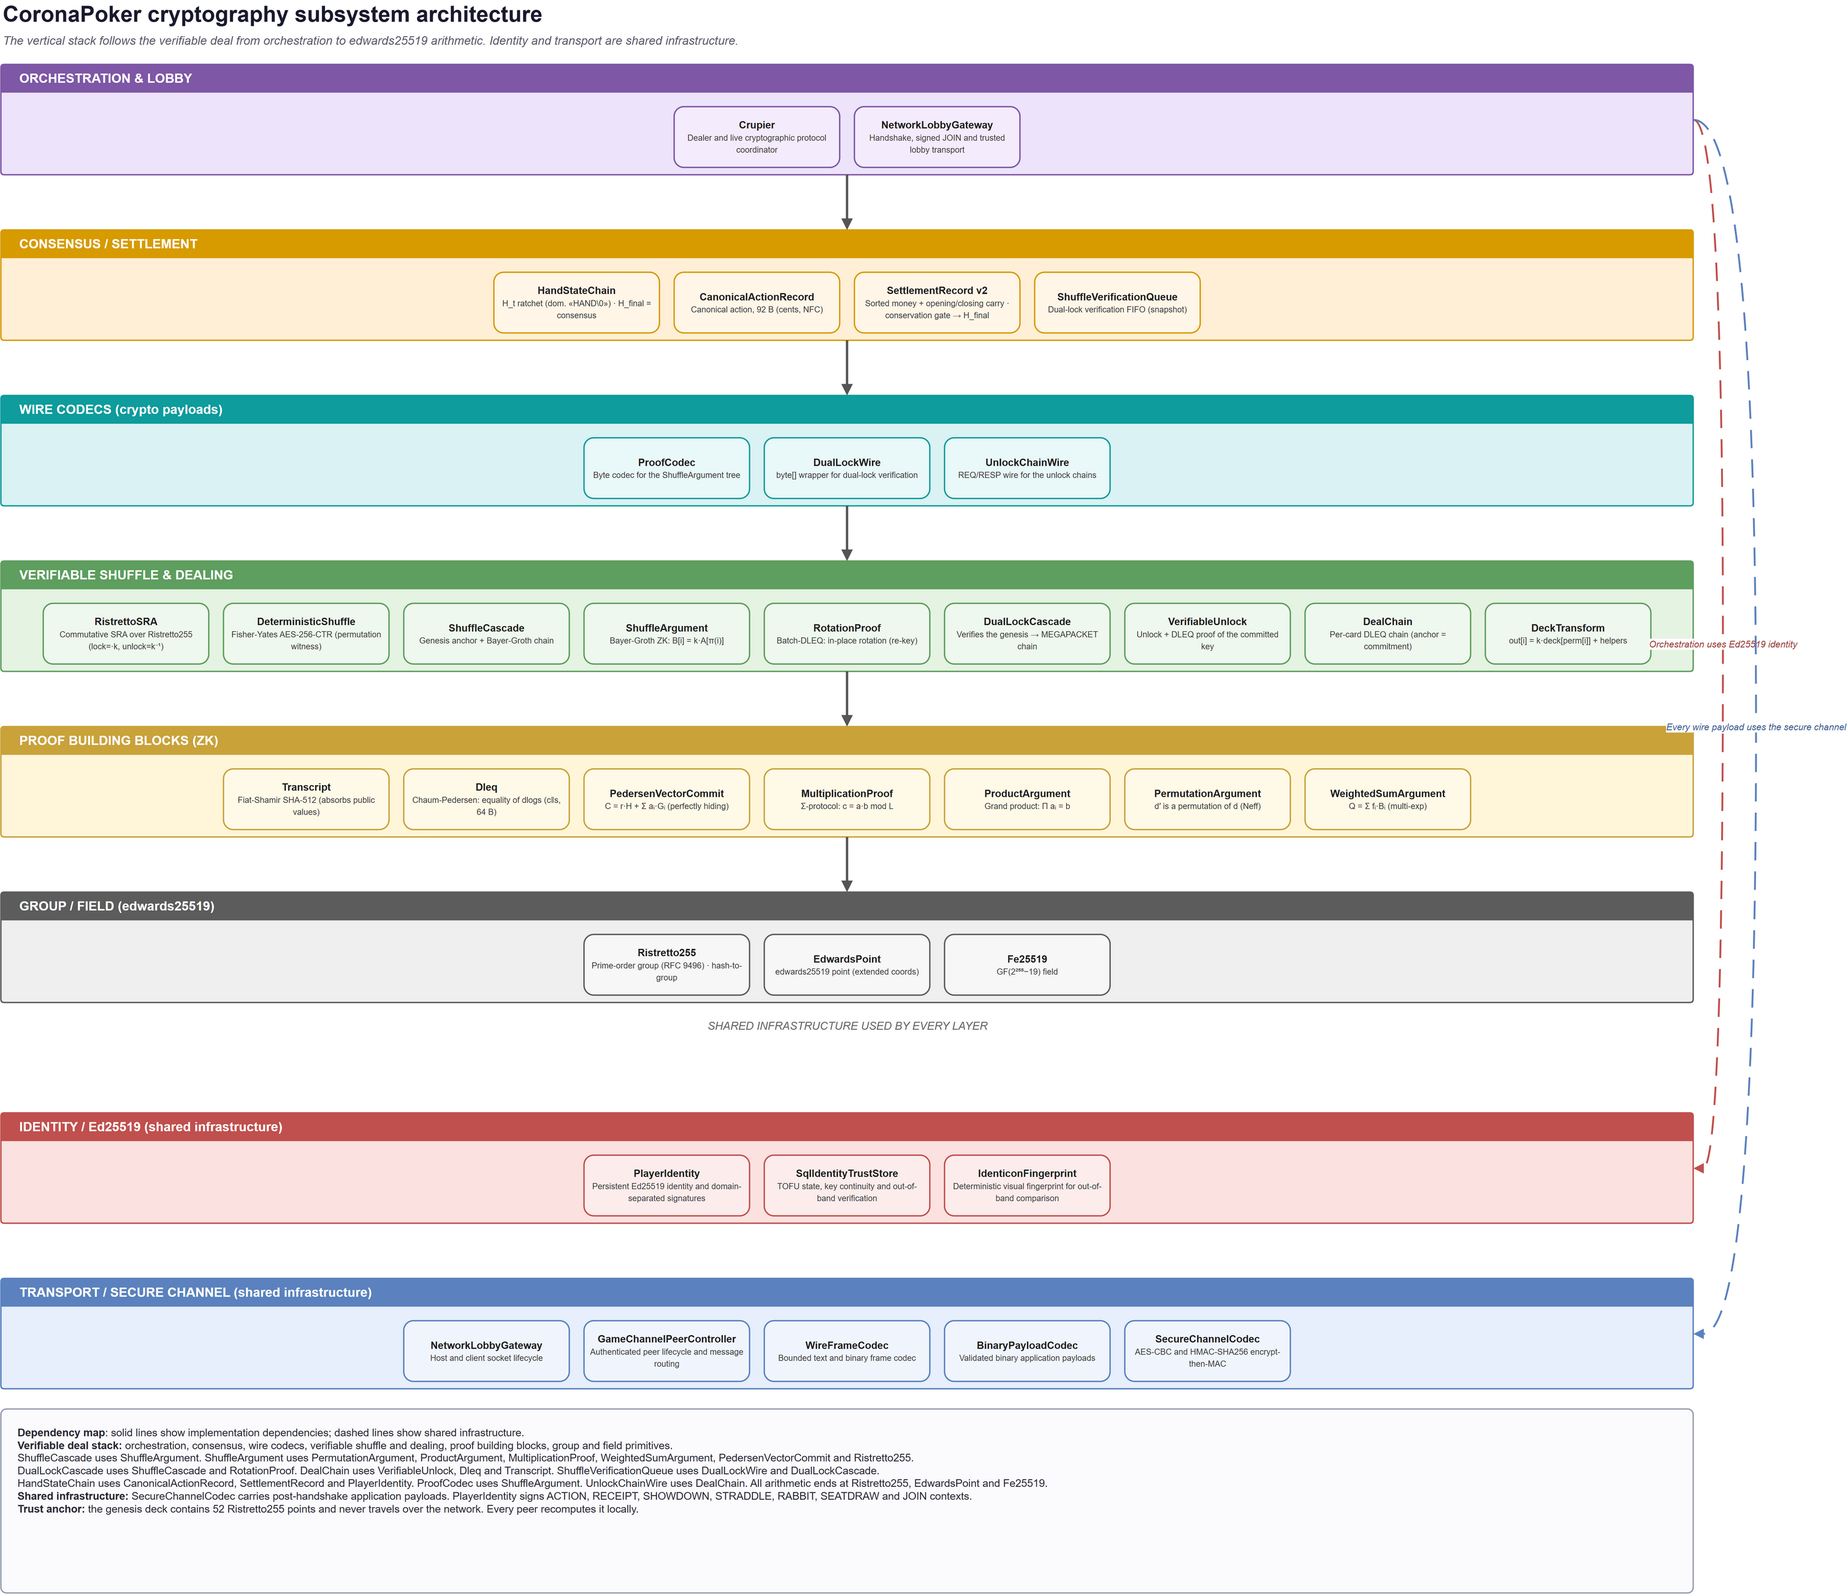
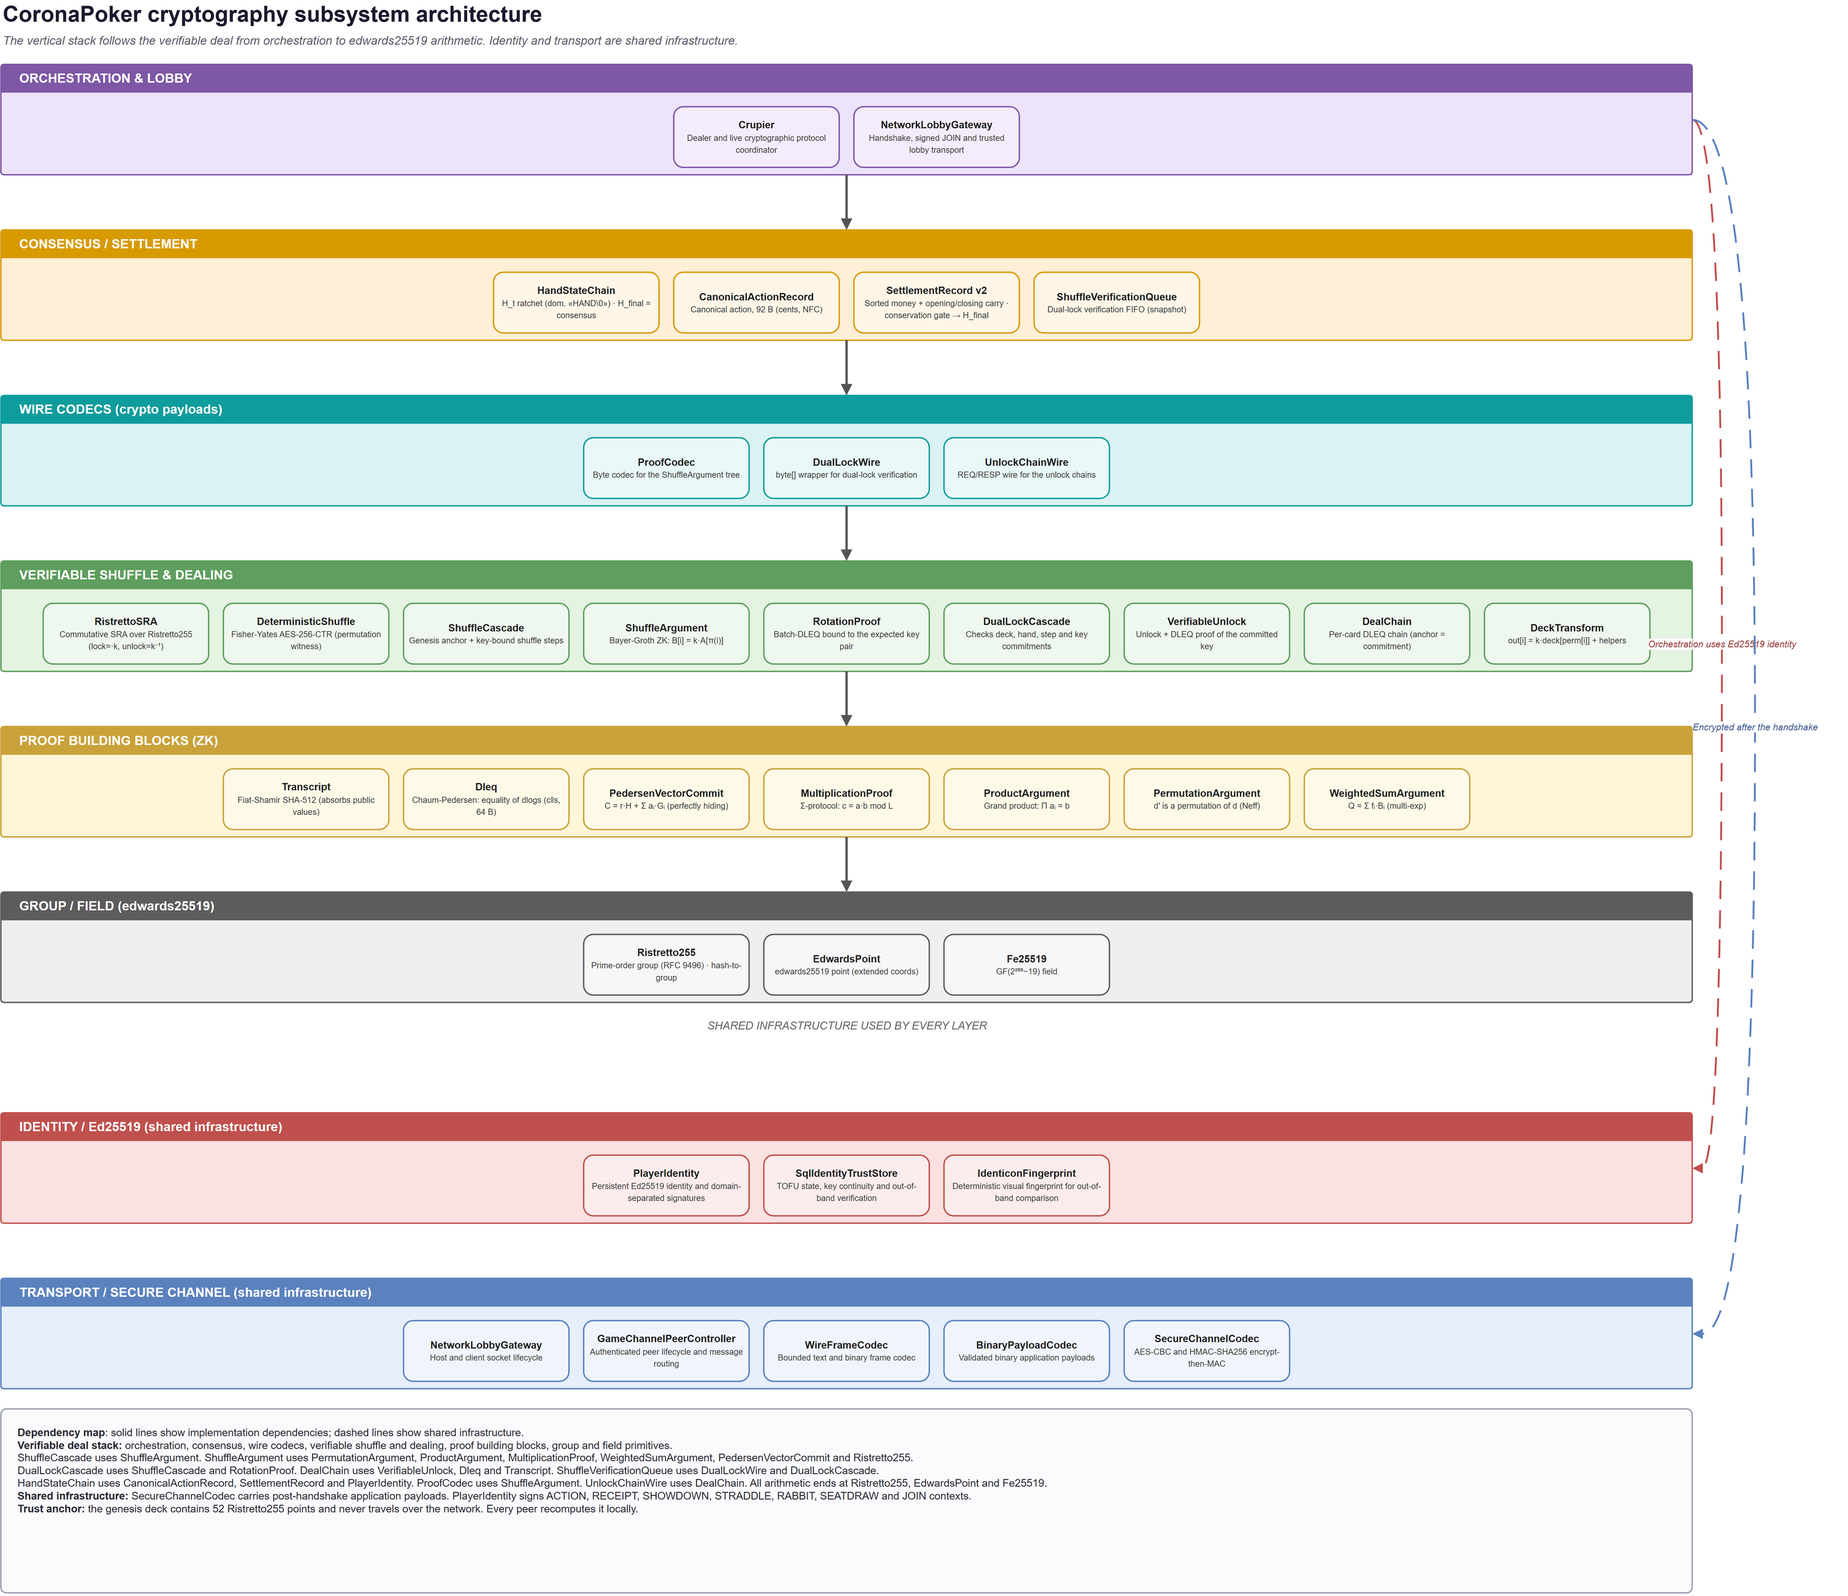
Repair and audit CoronaPoker documentation diagrams

diff --git a/README.md b/README.md
@@ -67,7 +67,7 @@ Select a snapshot to open it at full resolution.
 CoronaPoker is built around one security goal: **detect or prevent cheating, spying and tampering even when the host is not trusted**.
 
 ### Zero-trust deck protocol
-Every card is shuffled and locked collectively by **every human member of the hand's cryptographic ring** through a commutative Mental Poker (SRA) protocol, with a zero-knowledge **verifiable shuffle** that every ring member re-checks independently, so a malicious host cannot silently peek, duplicate or relocate a card in a completed deal. Pocket cards stay sealed end-to-end until showdown. Community cards unlock per street. **No single participant, not even the host, can learn another player's hole cards or the board before its legitimate reveal**. *(Built from scratch over Ristretto255, with DLEQ-chained dealing and a Bayer-Groth shuffle.)*
+Every card is shuffled and locked collectively by **every human member of the hand's cryptographic ring** through a commutative Mental Poker (SRA) protocol, with a zero-knowledge **verifiable shuffle** that every ring member re-checks independently, so a malicious host cannot silently peek, duplicate or relocate a card in a completed deal. Each player opens their own pocket cards locally. Other peers can check the cards that player reveals at showdown. Community cards unlock per street. **No single participant, not even the host, can learn another player's hole cards or the board before its legitimate reveal**. *(Built from scratch over Ristretto255, with DLEQ-chained dealing and a Bayer-Groth shuffle.)*
 
 ### Per-nick cryptographic identity & signed actions
 Every human player carries a persistent **Ed25519 keypair** stored locally with restricted ACLs (POSIX 0600 / Windows owner-only ACL). Betting actions, community and showdown reveals, straddle decisions, Rabbit requests, seat-draw commitments and closing receipts use distinct signed domains. A **hash chain** ratchets over each hand (`H_{t+1} = SHA-256(record || sig)`), committing every peer to the exact action history, and its closing state folds in the hand's **settlement** (who put in how much and who was paid how much). Before durable close, every peer enforces exact-cent conservation (`paid + closing carry = contributed + opening carry`) and exchanges signed receipts with the currently expected human ring members. Controlled departures are excluded because they cannot sign a future close. A conservation error, divergent or missing expected receipt, or invalid-signature flag stops SQLite close and hand advancement, preserving the open state for recovery. TOFU records the first key seen for a nick. A later different key is accepted as `CHANGED`, replaces the stored key, increments the session count and clears the out-of-band verification flag. This transition never blocks admission and is always recorded. To avoid notification noise, GDX shows an additional in-window warning only when the old identity had been explicitly verified out of band. An unverified key change remains in the game/debug logs without a popup. Compare the identity identicon/fingerprint out of band whenever key continuity matters.
@@ -158,7 +158,7 @@ CoronaPoker follows **Robert's Rules of Poker**, the de-facto standard cardroom 
 - **Odd chip.** Instead of handing the indivisible cent to whoever sits next to the button, CoronaPoker carries it into a **shared carry-over pot that rolls into the next hand**. Money stays exact to the cent and no seat position ever gains from a split. I find that fairer, and it's something Robert's Rules itself sanctions under §2 (House Policies, rule 1: *"Management reserves the right to make decisions in the spirit of fairness"*). The same carry-over pot also absorbs the leftover cent from a Run It Twice board split, which the rulebook doesn't address, so it all stays a single, uniform mechanism.
 - **Action timeout.** Where the rulebook always kills the hand on time-out, CoronaPoker **auto-checks when checking is free** and only auto-folds when there's a bet to call (the online-poker standard). The clock itself is fully configurable, and you can switch it off entirely.
 
-> 📄 The full rulebook ships with the game. Read it here: **[Robert's Rules of Poker (PDF)](robert_rules.pdf)**.
+> 📄 The full rulebook ships with the game. Read it here: **[English PDF](robert_rules.pdf)** or **[Spanish PDF](robert_rules_es.pdf)**.
 
 ---
 
@@ -381,7 +381,7 @@ duplicated product classes.
 - `coronaupdater.jar`: special root-level updater artifact required by the
   GitHub self-update mechanism.
 
-The cryptographic subsystem, covering verifiable **SRA / Ristretto255** dealing with DLEQ proofs, the zero-knowledge **Bayer-Groth** shuffle, per-nick **Ed25519** identity, the per-hand `H_t` ratchet and the receipt consensus, has its own two diagrams (a component architecture and a full per-hand protocol sequence) embedded in **[`docs/SECURITY.md`](docs/SECURITY.md)**.
+The cryptographic subsystem, covering verifiable **SRA / Ristretto255** dealing with DLEQ proofs, the zero-knowledge **Bayer-Groth** shuffle, per-nick **Ed25519** identity, the per-hand `H_t` ratchet and the receipt consensus, has three diagrams (component architecture, per-hand protocol sequence and denial-of-service resistance) embedded in **[`docs/SECURITY.md`](docs/SECURITY.md)**.
 
 The **bot AI**, covering its architecture, hand-evaluation maths, style model and per-turn decision pipeline, is documented in depth, with its own two diagrams (a component architecture and a decision-flow chart), in **[`docs/BOTS.md`](docs/BOTS.md)**.
 

diff --git a/docs/SECURITY.md b/docs/SECURITY.md
@@ -18,9 +18,11 @@ The layers of the crypto subsystem and how they depend on one another, namely th
 
 ### Per-hand protocol sequence
 
-Every cryptographic message exchanged during **one complete hand**, covering handshake and identity pinning, the SRA shuffle/rotation cascade, verifiable dealing, signed betting, the verifiable community reveals for all four streets, the showdown key reveal, and the settlement-receipt consensus. Topology: the host (dealer + player) plus two human clients. Every message is drawn explicitly.
+Example hand with a playing host and two human clients. It follows the handshake, seat draw, shuffle and rotation, pocket dealing, four betting rounds, three community reveals, showdown and settlement receipts. Sections 2.7 and 7 cover the optional blind straddle and recovery paths.
 
-![CoronaPoker per-hand cryptographic protocol sequence](diagrams/crypto-hand-sequence.png)
+[![CoronaPoker per-hand cryptographic protocol sequence](diagrams/crypto-hand-sequence.png)](diagrams/crypto-hand-sequence.png)
+
+[Download the full-resolution PNG](diagrams/crypto-hand-sequence.png?raw=1) or open the [editable Draw.io source](diagrams/crypto-hand-sequence.drawio).
 
 ### Denial-of-service resistance and the reaction ladder
 
@@ -94,7 +96,7 @@ When a player reaches showdown it answers the host's `REQ_SHOWDOWN_KEY` with a `
 
 The host runs this same check on each `RESP_SHOWDOWN_KEY` before it will include a revealer in `POTCARDS` (`verifyAndStoreShowdownKey`).
 
-Any mismatch (bad signature, unknown point, conflicting announcement) triggers `SECURITY_LOCKDOWN` (§8) and the hand is aborted before any chips move.
+The host rejects an invalid remote key reply and closes its authenticated source connection. A client that fails to verify the host’s showdown announcement takes the security-failure path in §8 before payout.
 
 ### 2.4 Deterministic shuffle
 
@@ -302,7 +304,7 @@ Where:
 - `flags.bit2` **qualifies** bit1: it is set only when the peer expected a proof (a fresh deal, not a recover) and **no** `DUALLOCK_BUNDLE` ever arrived for this deck. It distinguishes a host that **withholds** the proof (bit1+bit2, suspicious, even if only some peers are starved) from a **slow peer** whose bundle did arrive but whose verification queue has not finished yet (bit1 only, benign, self-correcting). The reception marker is set when the command arrives, before parsing, so an extremely slow verifier never trips bit2.
 - `sig` is `Ed25519(privkey, "RECEIPT\0" || HAND_ID || H_final || flags)`. All flag bits are inside the signed payload, so a host relay cannot strip them.
 
-The host gathers receipts from the currently expected human signers and relays them to the table. The consensus check ([`Crupier.java`](../modules/coronapoker-core/src/main/java/com/tonikelope/coronapoker/Crupier.java), `computeExpectedConsensusSigners`, `waitForHandverifyTrigger` and the surrounding consensus loop) reports the strongest anomaly it finds, in priority order: **divergent** `H_final` (alert) > **missing** expected receipt (warning) > `flags.bit0` **invalid-sig-seen** (warning) > `flags.bit1+bit2` **no-shuffle-proof** (warning) > `flags.bit1` alone **deck-pending** (silent) > clean (info).
+The host gathers receipts from the currently expected human signers and relays them to the table. It also broadcasts `HANDVERIFY_RESULT` with the hand ID and its decision. Clients require an OK for that hand as well as their own successful receipt verification. The consensus check ([`Crupier.java`](../modules/coronapoker-core/src/main/java/com/tonikelope/coronapoker/Crupier.java), `computeExpectedConsensusSigners`, `waitForHandverifyTrigger` and the surrounding consensus loop) reports the strongest anomaly it finds, in priority order: **divergent** `H_final` (alert) > **missing** expected receipt (warning) > `flags.bit0` **invalid-sig-seen** (warning) > `flags.bit1+bit2` **no-shuffle-proof** (warning) > `flags.bit1` alone **deck-pending** (silent) > clean (info).
 
 `DIVERGENT`, `MISSING` and `INVALID_SIG_SEEN` are gating failures. Consensus returns false, transmission ends, and neither `sqlUpdateHandEnd` nor the post-hand reset/advance runs. The already-computed payout objects remain intact in memory and the SQL hand stays open for recovery. This stage deliberately does not refund or settle a second time. `DECK_NO_PROOF` and `DECK_UNVERIFIED` remain forensic receipt outcomes that allow close because the separate proof gate already blocked unlocks before the local shuffle verdict. A clean OK still requires every signature to verify, every `H_final` to match and every flag to be clear.
 

diff --git a/website/README.md b/website/README.md
@@ -1,6 +1,6 @@
 # Web de CoronaPoker
 
-Web estática en Astro. Inglés en `/` y español en `/es/`. La compilación de producción queda en `dist/`.
+Web estática en Astro. Inglés en `/` y español en `/es/`. Al abrir la raíz, la web elige el idioma a partir del navegador. `?lang=en` y `?lang=es` permiten elegirlo explícitamente. La compilación de producción queda en `dist/`.
 
 ## Probar en local
 
@@ -31,7 +31,7 @@ npm run preview
 - `src/styles/site.css` contiene el diseño. `src/scripts/site.ts` añade navegación a la galería y permite avanzar o retroceder en el reparto de Mental Poker. Sin JavaScript, las capturas se abren como archivos y el reparto se explica junto al diagrama.
 - Para ampliar idiomas, añade los textos y la URL en `src/content.ts`, crea la página correspondiente en `src/pages/` e incorpora ese idioma al selector y a los metadatos.
 - El logotipo oficial procede de `src/main/resources/images/coronapoker_logo_big.png`. El favicon reutiliza `packaging/windows/CoronaPoker.ico`.
-- Seis capturas reales de `docs/screenshots/`. La galería sirve WebP adaptativos y abre cada captura a su resolución original. Las interfaces de las capturas conservan sus idiomas de origen.
+- Nueve capturas del juego en `public/media/`. La galería sirve WebP adaptativos y abre cada captura a su resolución original. Las interfaces de las capturas conservan sus idiomas de origen.
 - La portada se generó con ImageGen. El encargo visual fue una sala nocturna de póker con tapete granate, fichas y dos ases a la derecha, con espacio oscuro a la izquierda para el logotipo. En la segunda pasada se afinaron ambos ases y se corrigieron las sombras de contacto, conservando luz, encuadre y fichas. Sus variantes `hero-*.webp` están en `public/media/`.
 - Inter se sirve localmente. Su licencia SIL OFL está en `public/licenses/`.
 - La descripción del juego se basa en el README y en las especificaciones de [seguridad](https://github.com/tonikelope/coronapoker/blob/master/docs/SECURITY.md), [bots](https://github.com/tonikelope/coronapoker/blob/master/docs/BOTS.md) y [paquetes MOD](https://github.com/tonikelope/coronapoker/blob/master/docs/MODS.md). Las descargas apuntan a la última versión de GitHub Releases.
@@ -55,6 +55,6 @@ npm run preview
 5. Añade `coronapoker.net` como zona de Cloudflare en la misma cuenta que el proyecto de Pages. Si vas a cambiar los servidores de nombres en el registrador, conserva los registros DNS vigentes de la zona antes del cambio.
 6. En el proyecto de Pages, entra en **Custom domains → Set up a domain** y añade `coronapoker.net`. Espera a que el dominio y el certificado estén activos.
 7. Para redirigir `www.coronapoker.net` al dominio principal, crea una regla **Bulk Redirects** con origen `www.coronapoker.net`, destino `https://coronapoker.net` y código 301. Activa la coincidencia de subrutas y la conservación de la ruta y de los parámetros de consulta. Para una redirección dedicada, Cloudflare indica crear un registro A de `www` con valor `192.0.2.1` y proxy activado.
-8. Comprueba que `https://www.coronapoker.net/es/` redirige a `https://coronapoker.net/es/` y que `/robots.txt` y `/sitemap.xml` responden en el dominio principal.
+8. Comprueba que `/robots.txt` y `/sitemap.xml` responden en el dominio principal. Si configuraste el alias `www`, comprueba que `https://www.coronapoker.net/es/` redirige a `https://coronapoker.net/es/`.
 
 [Integración con Git](https://developers.cloudflare.com/pages/get-started/git-integration/) | [Dominios personalizados](https://developers.cloudflare.com/pages/configuration/custom-domains/) | [Redirección de www](https://developers.cloudflare.com/pages/how-to/www-redirect/)

diff --git a/docs/ec-identity-spec.md b/docs/ec-identity-spec.md
@@ -324,7 +324,9 @@ Host → all:      GAME # <command_id> # HANDVERIFY                       (no pa
 Each peer → all: GAME # <command_id> # HANDVERIFY # <nick_b64> # <receipt_b64>
 ```
 
-Both forms ride the standard `GAME # <command_id> #` envelope. The parser distinguishes the trigger from a receipt by field count (3 fields vs 5).
+Both forms ride the standard `GAME # <command_id> #` envelope. The parser distinguishes the trigger from a receipt by field count (3 fields vs 5). Clients send receipts to the host, which relays them to the other clients and sends its own receipt.
+
+The host also sends `HANDVERIFY_RESULT # <hand_id_b64> # <OK|FAIL> # <reason_b64>` in the same envelope. Clients require an OK for their current hand and check the signed receipts independently before closing.
 
 ### 6.2 Receipt format
 
@@ -421,7 +423,8 @@ The `receipts` blob is stored **as collected** (the receipts are already signed,
 | `RABBIT_REQ # <request_b64>` | Requester → host | Hand-bound request carrying the requester's Ed25519 proof (`"RABBIT\0"`) |
 | `RABBIT_AUTH # <authorization_b64>` | Host → all | Canonical count/fee plus the unchanged signed request. Every peer verifies requester authorship before charging |
 | `HANDVERIFY` (no payload) | Host → all | Consensus trigger |
-| `HANDVERIFY # <nick_b64> # <receipt_b64>` | Each peer → all | Signed end-of-hand receipt |
+| `HANDVERIFY # <nick_b64> # <receipt_b64>` | Clients → host, host → clients | Signed end-of-hand receipt |
+| `HANDVERIFY_RESULT # <hand_id_b64> # <status> # <reason_b64>` | Host → clients | Hand-specific `OK` or `FAIL` for settlement |
 
 Wire-incompatible changes are gated by the strict `ApplicationMetadata.VERSION` equality check at join (§3). The production dual-lock proof format v2 uses context-bound DLEQ proofs for the expected public keys. Active-hand recovery requires the matching local `SHUFFLE_CONTEXT@2` verdict alongside `SHUFFLE_VERIFIED@1`.
 

diff --git a/docs/diagrams/README.md b/docs/diagrams/README.md
@@ -32,7 +32,13 @@ node .\tools\diagrams\gen_product_arch.mjs
 
 The crypto and bot generators under `tools/diagrams` follow the same rule.
 Export at the dimensions in the table and compare the final PNG dimensions
-before committing. This preserves small labels and connector detail in the
-rendered documentation.
+before committing. Review the whole image from top to bottom and check the
+last label or phase. A cropped render can have the expected dimensions.
+
+For the per-hand sequence, a single Draw.io PNG export at 2× can leave the
+lower half blank. Export the Draw.io source as SVG, render it in a Chromium
+browser at 2× in horizontal strips, and join the strips into the required
+3341 × 19444 PNG at their original pixel size. Check the showdown, settlement
+and bottom participant labels after export.
 
 </div>
